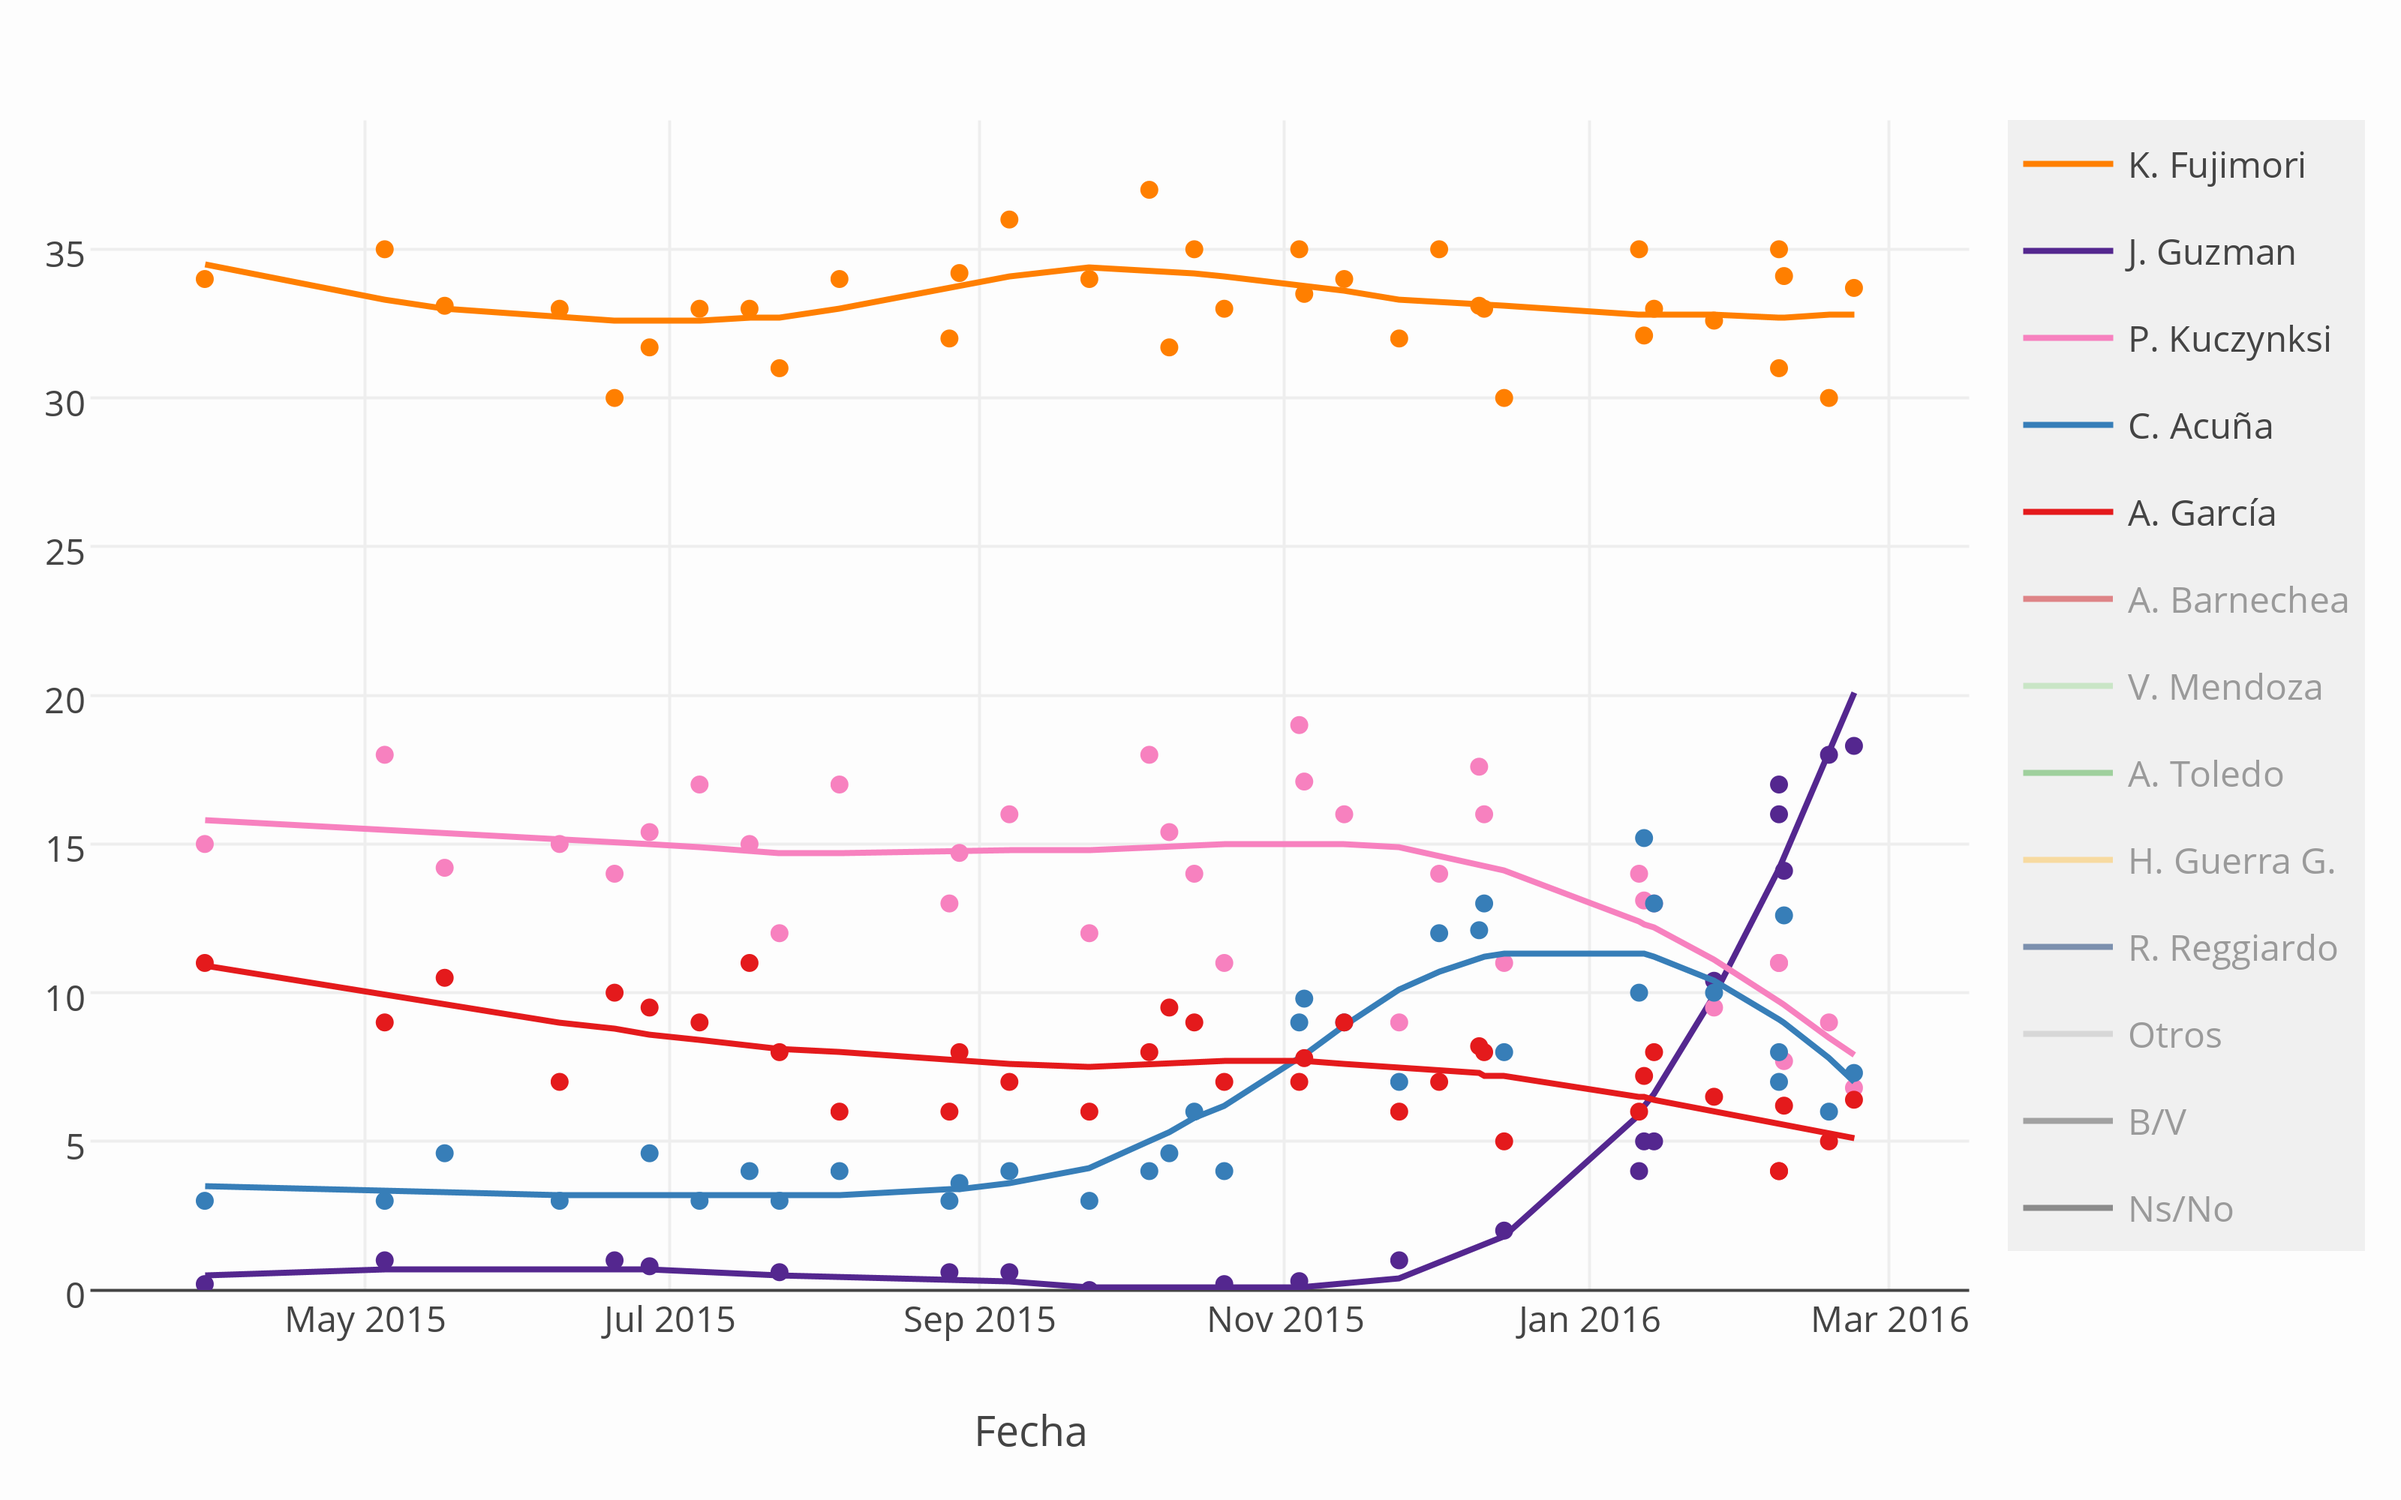
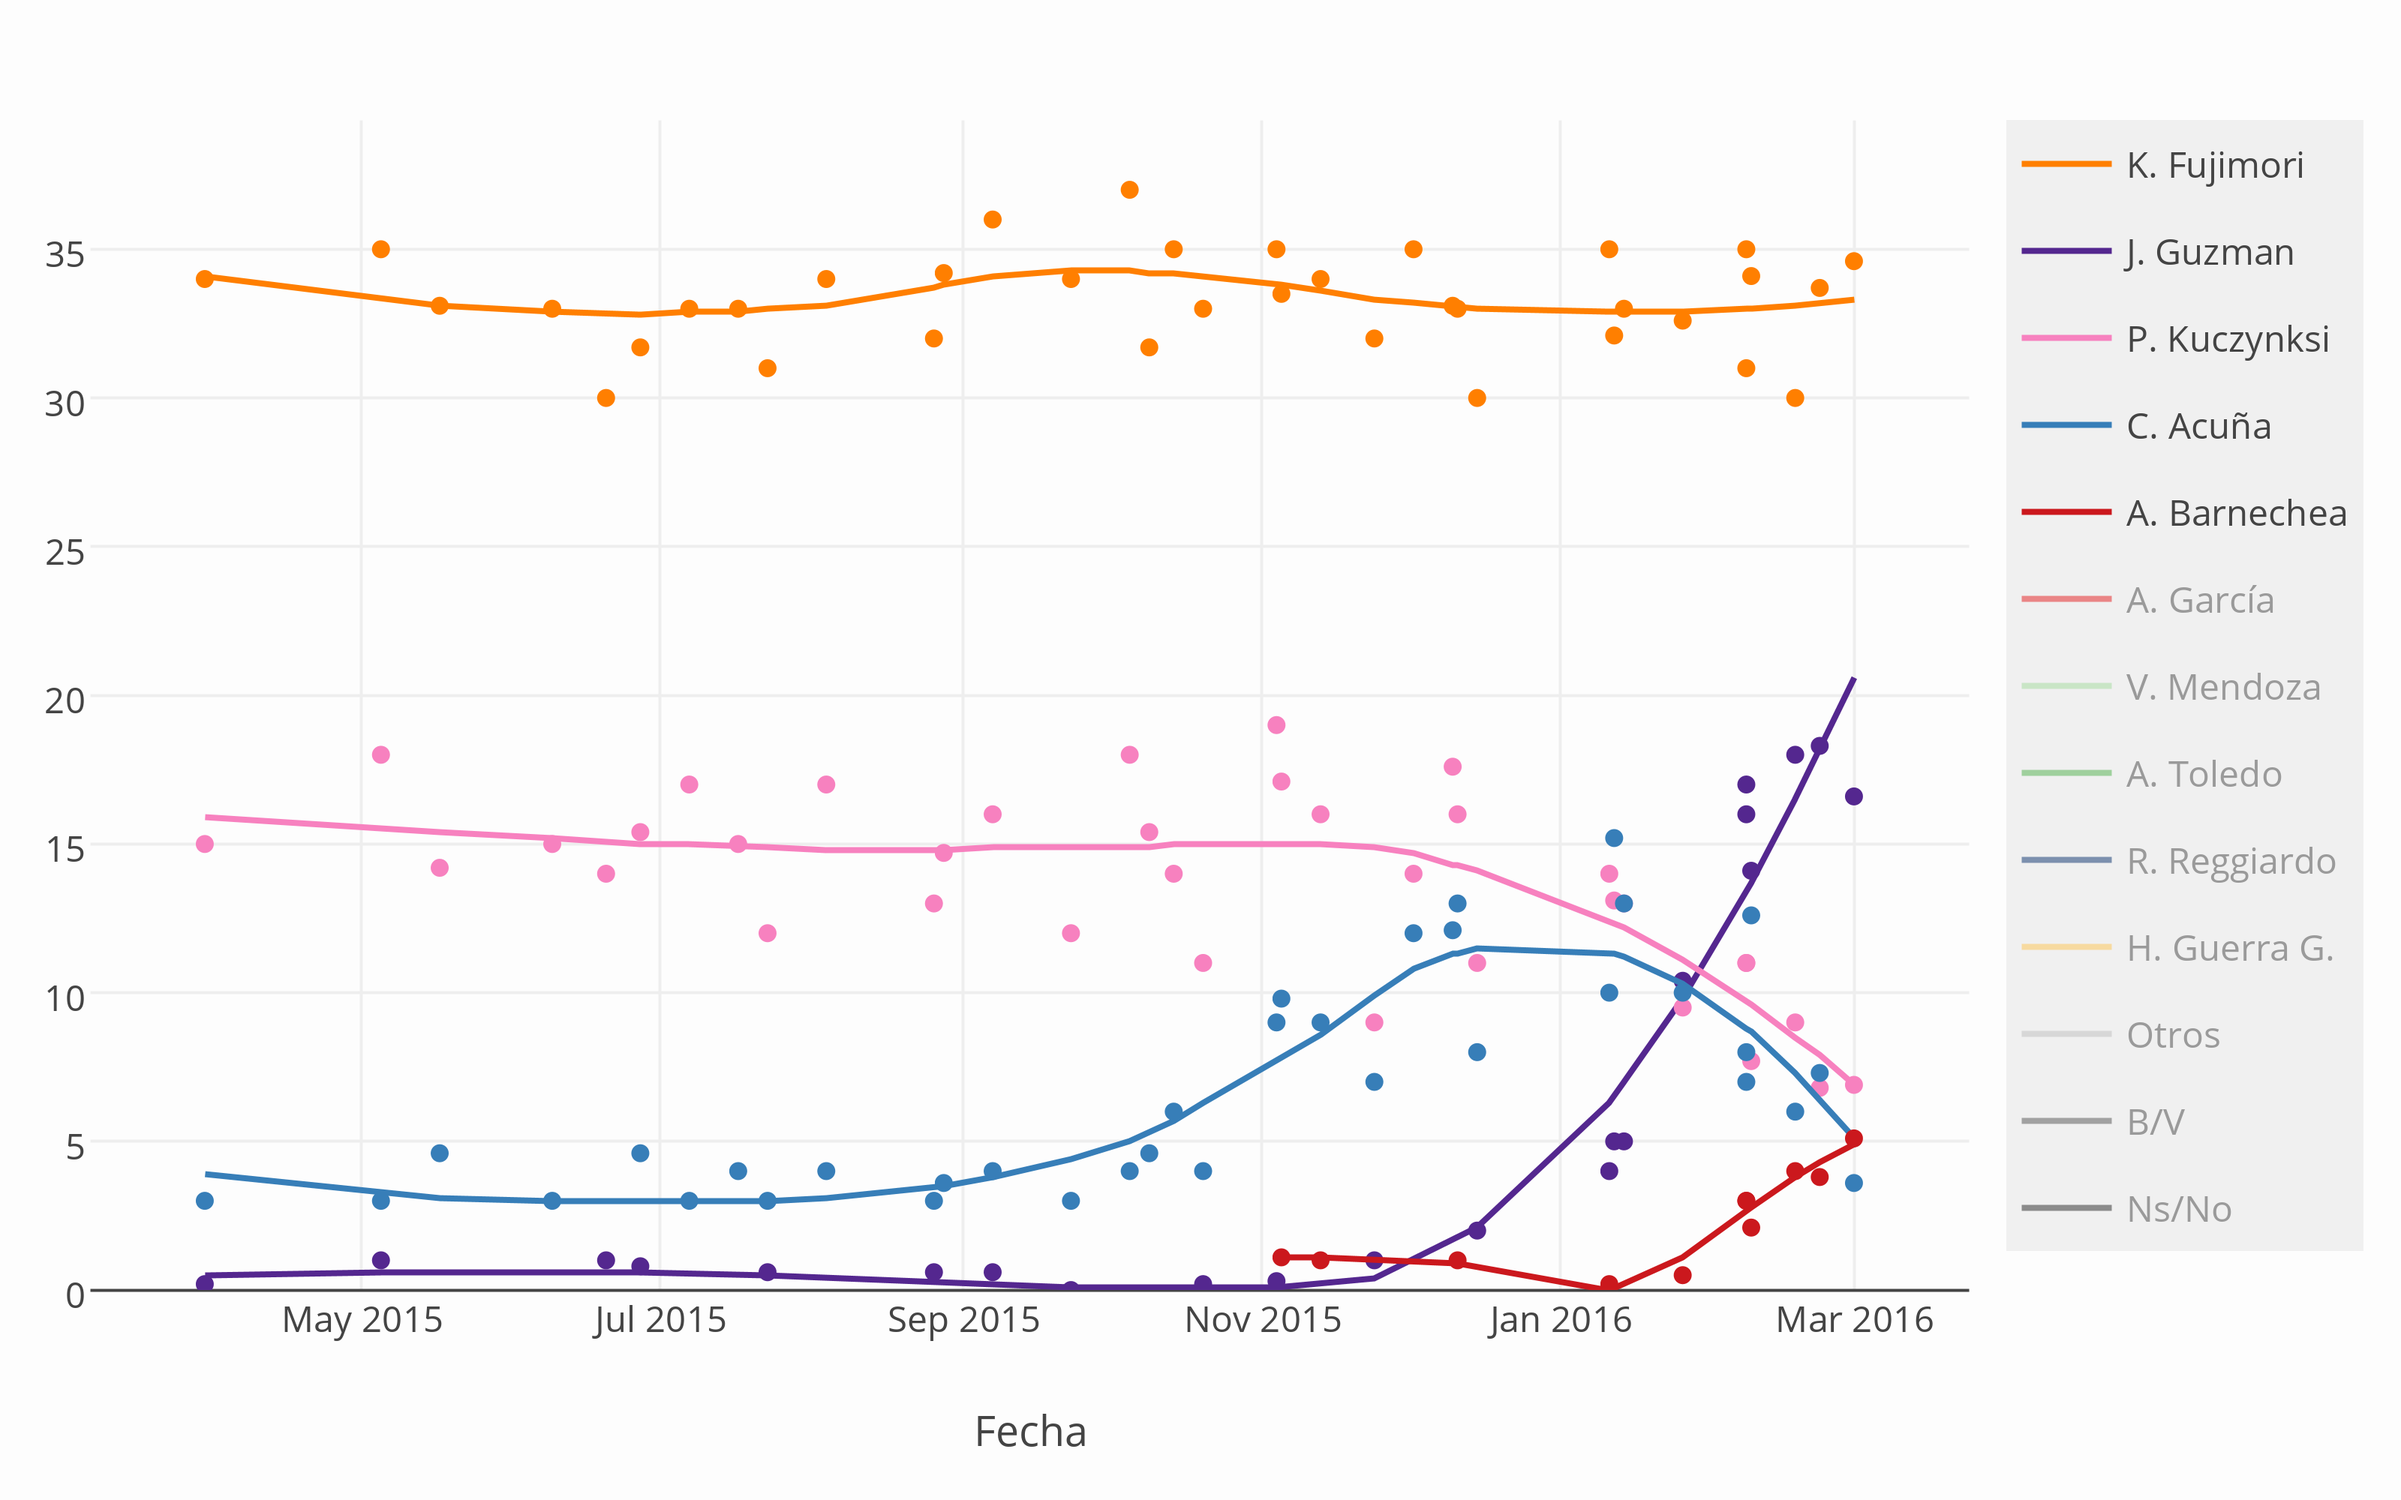
graficoActualizado

diff --git a/_posts/2016-03-08-Elecciones-presidenciales-2016.md b/_posts/2016-03-08-Elecciones-presidenciales-2016.md
@@ -24,7 +24,7 @@ breadcrumb: true
 
 
 
-El siguiente gráfico combina las encuestas de intención de voto. Actualizado el 27-02-2016.
+El siguiente gráfico combina las encuestas de intención de voto. Actualizado el 08-03-2016.
 
 
 
@@ -43,7 +43,7 @@ $('.myIframe').css('height', $(window).height()+'px');
 
 ## Resumen
 
-Estimado de »Resultados.pe« al cierre del trabajo de campo de la encuesta más reciente: 23-02-2016. 
+Estimado de »Resultados.pe« al cierre del trabajo de campo de la encuesta más reciente: 01-03-2016. 
 
 <iframe src="https://plot.ly/~AlejandroKantor/380.embed?link=False"  style="width: 100%" frameBorder="0" height="350" scrolling="no" seamless="seamless" 
 class="myIframe">
